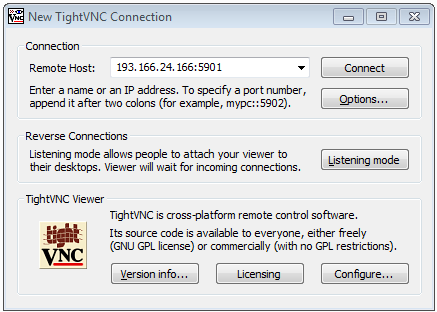
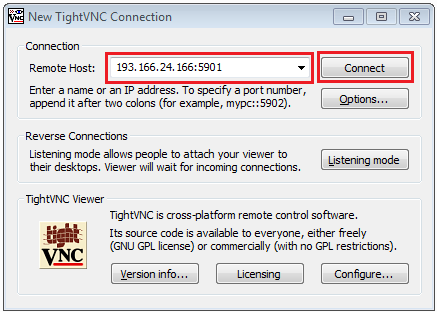
Fixed docs on how to connect with TightVNC

Changed region(s): [[0.238, 0.1442, 0.9519, 0.2885]]

diff --git a/README.md b/README.md
@@ -25,10 +25,10 @@ any programming during the lectures or practicals. You will do all the work usin
 
 ## Computer Instance
 
-Computer instance is basically a Linux Ubuntu computer (tailored for this course)
+Computer instance is basically a **temporary** Linux Ubuntu computer (tailored for this course)
 that you can use in a similar manner as you would use your own computer. 
 The difference is that the computer is located in the 'cloud' i.e. it is physically located and run in somewhere else 
-(basically on the servers of [CSC Finland](https://www.csc.fi/home)) and you use it remotely from any computer with an internet connection.
+(basically on the servers of [CSC Finland](https://www.csc.fi/home)) and you use it remotely from any computer with an internet connection. 
 
 ## Git + GitHub
 
@@ -45,6 +45,18 @@ collaborators that are working on a same project. GitHub provides a nice web-int
 It is a nice way for exploring the codes and documentations or e.g. teaching materials such as these in our course. 
 
 Both Git and GitHub provide much more features than the ones mentioned here but for now we are happy to understand the basic idea of what they are. 
+
+## Workflow
+
+The figure below illustrates the basic workflow that we will be doing throughout this course. We will be using actively all of the aforementioned components, 
+i.e. we will:
+ 
+ 1-2. launch Computer Instances from the Computing Dashboard
+ 3. Connect and work in temporary remote computer instance
+ 4. Download course materials from GitHub
+ 5. Save our work permanently to GitHub after every lecture or practicals
+  
+ ![Workflow](img/RemoteComputerInstance.png)
 
 ## Next steps
 
